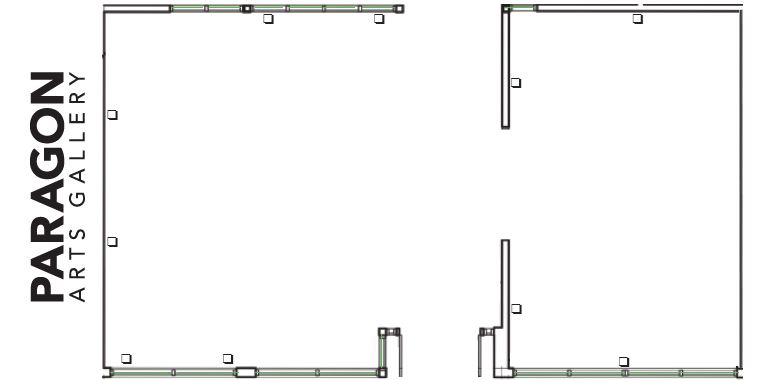
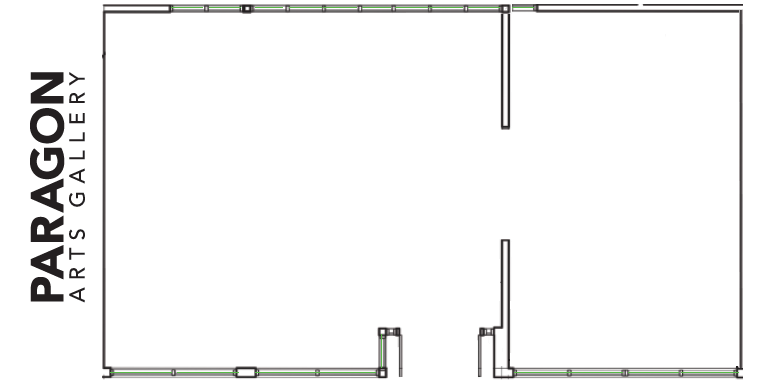
changed over to water feature and started work on better map

diff --git a/sketch.js b/sketch.js
@@ -24,7 +24,7 @@ let tools = savedData.Tools;
 let bgImg;
 let treeImg;
 let farmImg;
-let buttonImg;
+let waterImg;
 let swarmImg;
 
 let imgHeight;
@@ -38,10 +38,10 @@ let resetButton;
 
 function preload()
 {
-  bgImg = loadImage('floorPlan.png');
-  treeImg = createImg('tree.jpg');
+  bgImg = loadImage('floorPlan2.png');
+  treeImg = createImg('tree2.png');
   farmImg = createImg('farm.jpeg');
-  buttonImg = createImg('buttons.jpg');
+  waterImg = createImg('water.jpg');
   swarmImg = createImg('swarm.jpg');
 }
 
@@ -59,10 +59,10 @@ function setup()
   farmImg.position(imgWidth*0.77, imgHeight*0.3);
   farmImg.mouseClicked(farmUrl);
   farmImg.hide();
-  buttonImg.size(imgWidth*0.2, imgHeight*0.2);
-  buttonImg.position(imgWidth*0.2, imgHeight*0.4);
-  buttonImg.hide();
-  buttonImg.mouseClicked(buttonUrl);
+  waterImg.size(imgWidth*0.2, imgHeight*0.2);
+  waterImg.position(imgWidth*0.2, imgHeight*0.4);
+  waterImg.hide();
+  waterImg.mouseClicked(buttonUrl);
   swarmImg.size(imgWidth*0.15, imgHeight*0.3);
   swarmImg.position(imgWidth*0.71, imgHeight*0.6);
   swarmImg.hide();
@@ -99,11 +99,11 @@ function draw()
   }
   if ((winMouseX >= imgWidth * 0.2 && winMouseX <= imgWidth * .4) && (winMouseY >= imgHeight * 0.4 && winMouseY <= imgHeight * 0.59))
   {
-    buttonImg.show();
+    waterImg.show();
   }
   else
   {
-    buttonImg.hide();
+    waterImg.hide();
   }
   if ((winMouseX >= imgWidth * 0.71 && winMouseX <= imgWidth * 0.86) && (winMouseY >= imgHeight * 0.6 && winMouseY <= imgHeight * 0.9))
   {
@@ -171,8 +171,8 @@ function windowResized()
   treeImg.position(imgWidth*0.25, imgHeight*0.5);
   farmImg.size(imgWidth*0.2, imgHeight*0.25);
   farmImg.position(imgWidth*0.77, imgHeight*0.3);
-  buttonImg.size(imgWidth*0.2, imgHeight*0.2);
-  buttonImg.position(imgWidth*0.2, imgHeight*0.4);
+  waterImg.size(imgWidth*0.2, imgHeight*0.2);
+  waterImg.position(imgWidth*0.2, imgHeight*0.4);
   swarmImg.size(imgWidth*0.15, imgHeight*0.3);
   swarmImg.position(imgWidth*0.71, imgHeight*0.6);
   textSize(imgWidth*0.025);

diff --git a/button.html b/button.html
@@ -4,7 +4,7 @@
     <meta charset="utf-8" />
     <meta name="viewport" content="width=device-width, initial-scale=1.0">
 
-    <title>Stanley's Heaven</title>
+    <title>Need a Drink?</title>
 
     <link rel="stylesheet" type="text/css" href="style.css">
 
